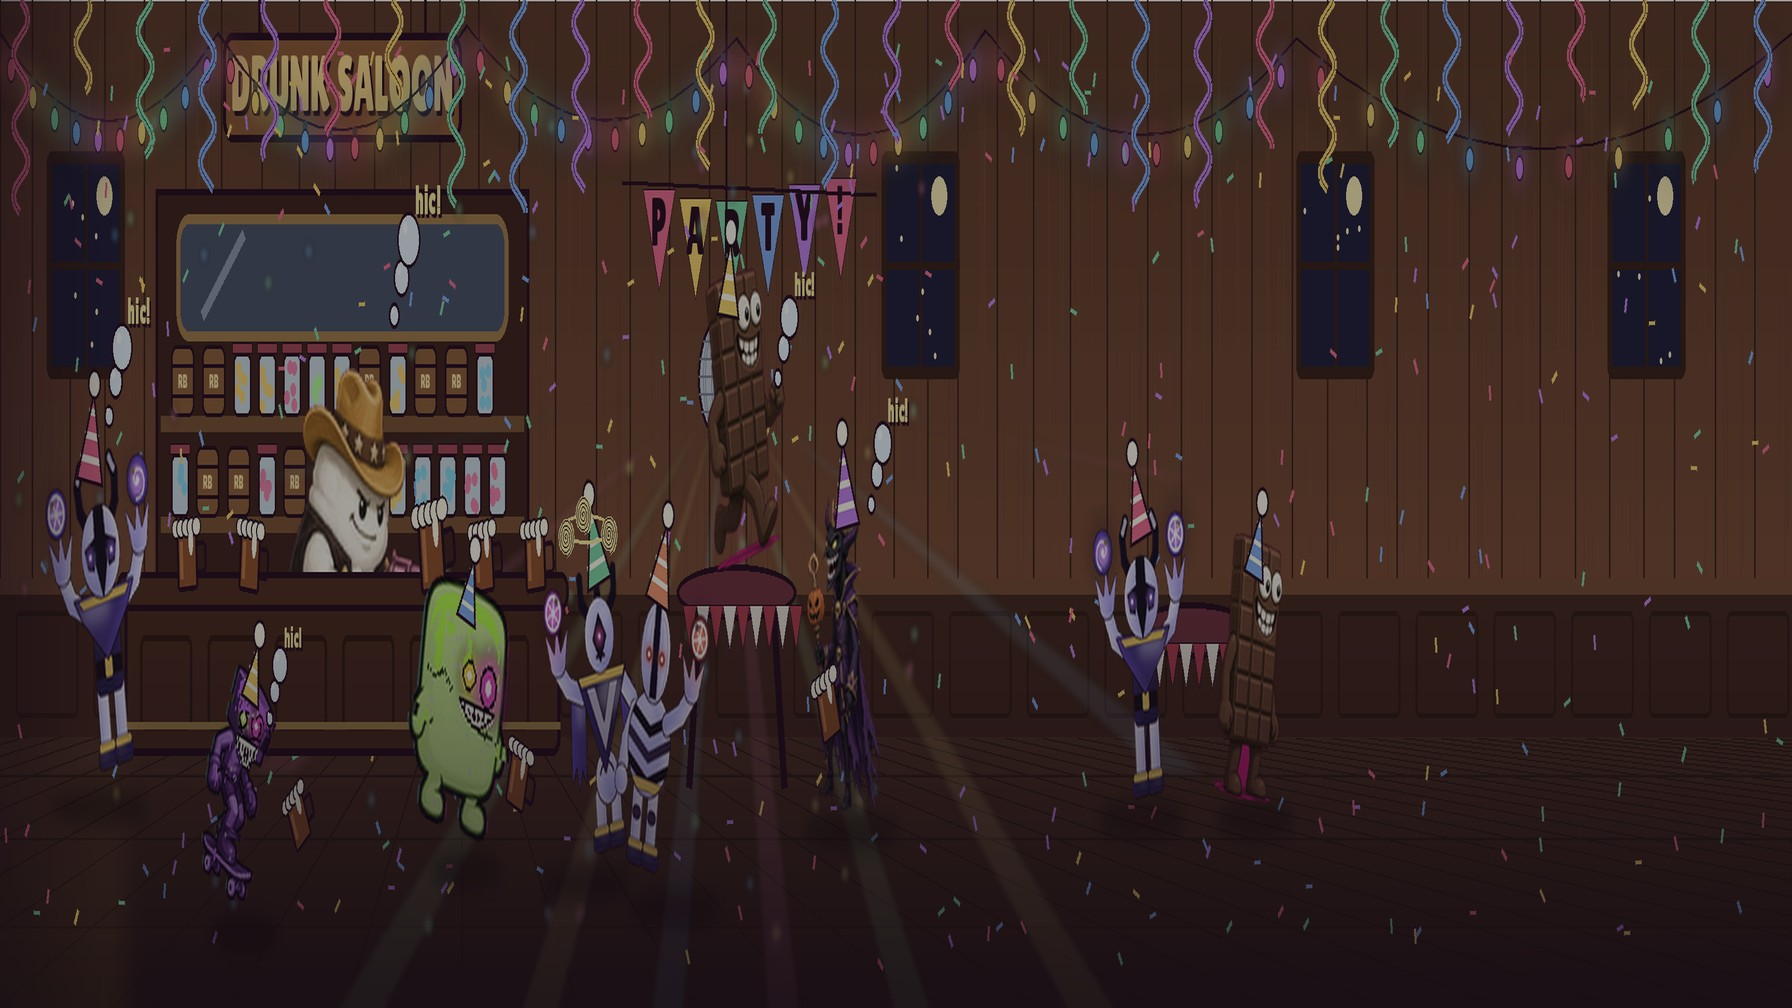
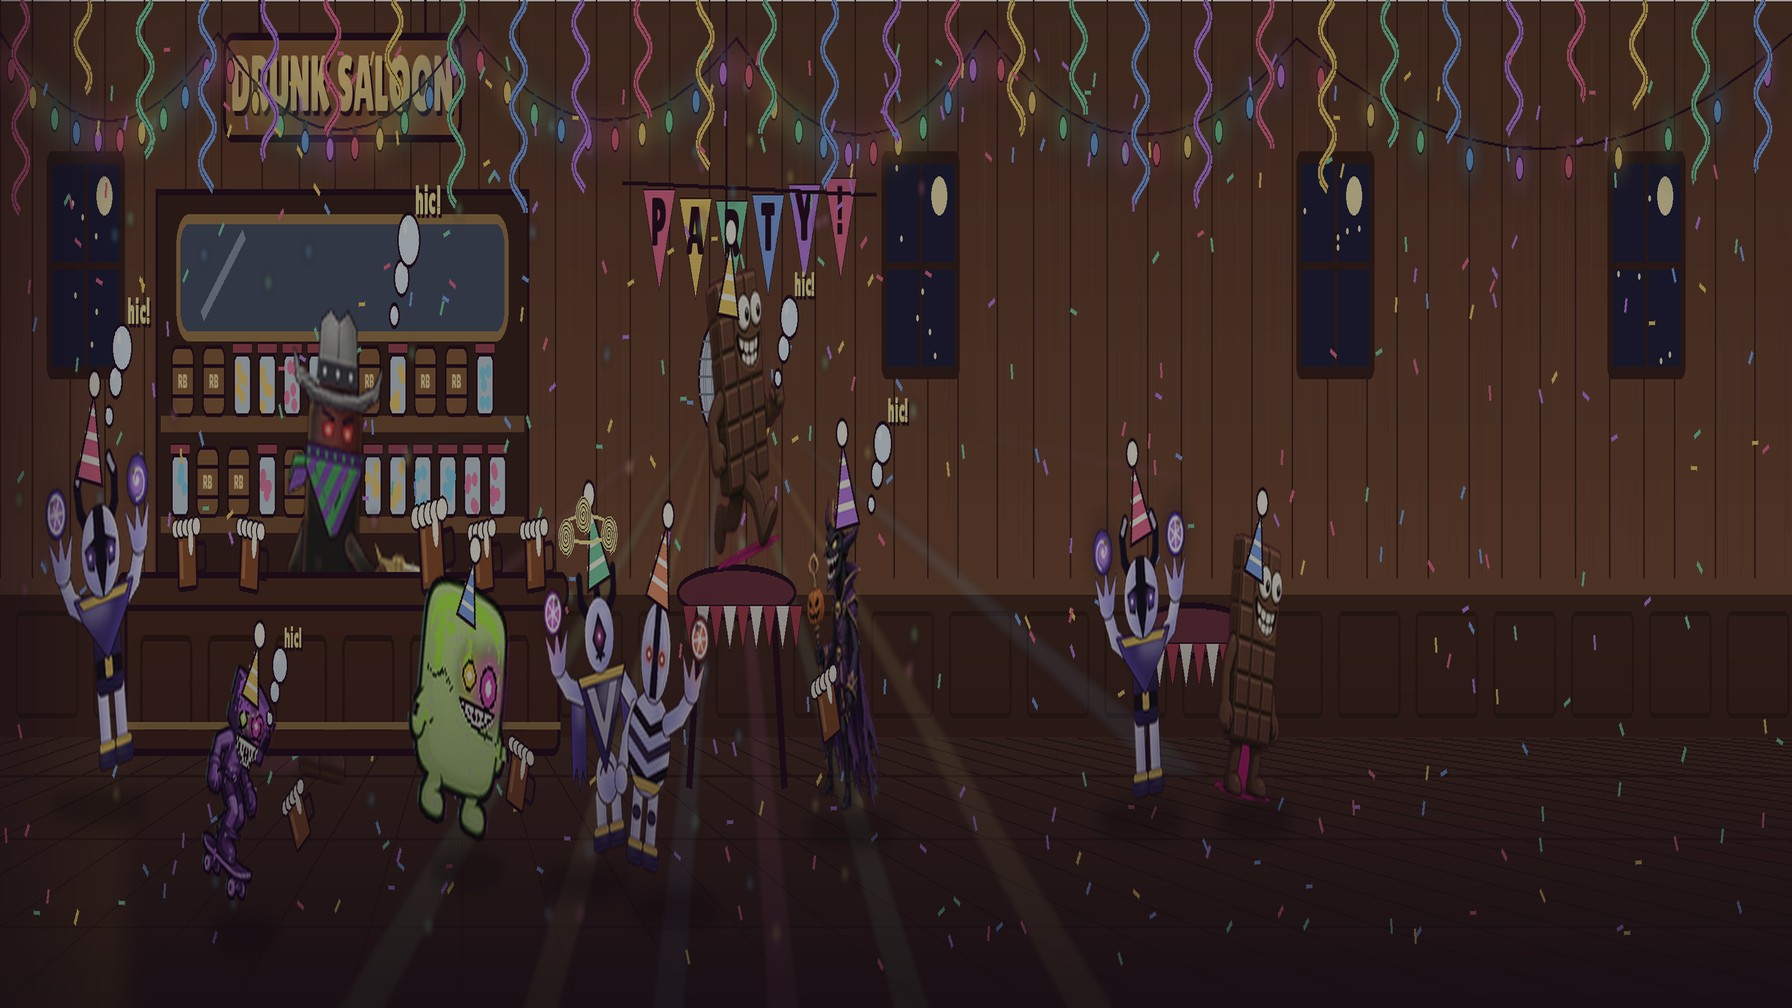
Redesign the Marshmallow Outlaw: thin roasted-black marshmallow, red glowing eyes, green/purple bandana, gray hat, golden pistol (sheet, saloon bartender, boss door)

Changed region(s): [[0.1562, 0.3075, 0.25, 0.5843]]

diff --git a/scripts/art/make-outlaw.py b/scripts/art/make-outlaw.py
@@ -1,0 +1,269 @@
+#!/usr/bin/env python3
+"""
+Marshmallow Outlaw boss sheet (f2-boss), drawn in code in the in-game boss style.
+
+Hayden's redesign: a thinner body, a roasted / charred black marshmallow body
+(with toasted-brown edges so he still reads against dark backgrounds), a green
+and purple bandana covering his mouth, a gray cowboy hat, a golden pistol and
+red glowing eyes peeking out between the bandana and the hat brim.
+
+Same format as the other boss sheets: 128px frames in a 256x256 2x2 sheet,
+feet on y=118, facing right (the game flips him toward the player), a chunky
+dark outline with soft shading and a top sheen. The four frames are his idle
+loop (`outlaw-idle` at 6 fps: breathe/bob, pistol bob, eye-glow pulse,
+bandana tails flutter); his attack poses are made by the boss rig from these.
+
+The old painted sheet is kept at scripts/art/src/outlaw-original.png so the
+change can be reverted (copy it back over public/game/sprites/outlaw.png).
+
+No AI art and no third-party art.
+
+    python3 scripts/art/make-outlaw.py
+"""
+from __future__ import annotations
+
+import importlib.util
+import math
+from pathlib import Path
+
+import numpy as np
+from PIL import Image, ImageChops, ImageDraw, ImageFilter
+
+HERE = Path(__file__).resolve().parent
+
+
+def _load(name, file):
+    spec = importlib.util.spec_from_file_location(name, HERE / file)
+    mod = importlib.util.module_from_spec(spec)
+    spec.loader.exec_module(mod)  # main() is guarded
+    return mod
+
+
+C = _load("candy", "make-candy-cube.py")
+W = _load("warlords", "make-admin-warlords.py")
+
+OUT = C.OUT
+S, px, INK = C.S, C.px, C.INK
+canvas, empty_mask, dilate, blit_color = C.canvas, C.empty_mask, C.dilate, C.blit_color
+ellipse_mask, capsule_mask, union, subtract = C.ellipse_mask, C.capsule_mask, C.union, C.subtract
+rounded_rect_mask = C.rounded_rect_mask
+part, inner, glow, path_mask, poly_mask, highlight = W.part, W.inner, W.glow, W.path_mask, W.poly_mask, W.highlight
+
+# roasted marshmallow
+CHAR = (34, 28, 28)
+CHAR_LIT = (66, 50, 44)
+TOAST = (168, 98, 44)
+TOAST_LIT = (214, 146, 70)
+# outfit
+HAT = (156, 154, 150)
+HAT_DEEP = (100, 98, 96)
+HAT_LIT = (214, 212, 208)
+GREEN = (60, 176, 84)
+GREEN_DEEP = (30, 112, 52)
+PURPLE = (136, 70, 196)
+PURPLE_DEEP = (84, 38, 130)
+GOLD = (240, 196, 70)
+GOLD_LIT = (255, 236, 150)
+GOLD_DEEP = (168, 118, 34)
+LEATHER = (110, 64, 34)
+LEATHER_DEEP = (70, 38, 20)
+EYE = (255, 36, 30)
+
+
+def erode(mask: Image.Image, width: float) -> Image.Image:
+    k = max(3, int(round(width * 2)) + 1)
+    if k % 2 == 0:
+        k += 1
+    return mask.filter(ImageFilter.MinFilter(k))
+
+
+def warm_shade(img, mask, band=7.0, strength=0.25):
+    """Right-side shading without the cool/blue shadow tint (gray hat, char)."""
+    a = np.array(img, dtype=np.float32)
+    m = np.array(mask)
+    h, w = m.shape
+    band_px = max(1, px(band))
+    factor = np.ones((h, w), dtype=np.float32)
+    for yy in np.where(m.max(axis=1) > 0)[0]:
+        xs = np.where(m[yy] > 0)[0]
+        t = np.clip((int(xs[-1]) - np.arange(w)) / band_px, 0, 1)
+        factor[yy] -= (1.0 - t) * strength
+    a[:, :, :3] *= factor[:, :, None]
+    img.paste(Image.fromarray(np.clip(a, 0, 255).astype(np.uint8), "RGBA"), (0, 0), mask)
+
+
+def gpart(dst, mask, rgb, outline=1.9, sheen=True):
+    part(dst, mask, rgb, outline=outline, shade=False, sheen=False)
+    warm_shade(dst, mask, band=6, strength=0.22)
+    if sheen:
+        highlight(dst, mask, tuple(v / S for v in mask.getbbox()), alpha=110)
+
+
+def charred(dst, mask, outline=2.0, toast=4.0):
+    """Roasted marshmallow: black body, toasted-brown edges, warm sheen."""
+    if mask.getbbox() is None:
+        return
+    rim = dilate(mask, outline).filter(ImageFilter.GaussianBlur(0.8))
+    blit_color(dst, rim, INK)
+    blit_color(dst, mask, CHAR)
+    edge = subtract(mask, erode(mask, toast)).filter(ImageFilter.GaussianBlur(px(0.9)))
+    edge = ImageChops.multiply(edge, mask)
+    blit_color(dst, edge.point(lambda v: v * 235 // 255), TOAST)
+    # left/top edges catch the light a bit more (toasted-gold)
+    bb = [v / S for v in mask.getbbox()]
+    lit = ellipse_mask((bb[0] - 6, bb[1] - 6, bb[0] + (bb[2] - bb[0]) * 0.55, bb[1] + (bb[3] - bb[1]) * 0.5))
+    lit = ImageChops.multiply(ImageChops.multiply(edge, lit), mask)
+    blit_color(dst, lit.point(lambda v: v * 170 // 255), TOAST_LIT)
+    warm_shade(dst, mask, band=7, strength=0.3)
+    highlight(dst, mask, tuple(bb), alpha=55)
+
+
+def char_spots(dst, mask, spots):
+    """A few soot / blister marks on the roasted skin."""
+    for (x, y, r) in spots:
+        m = ImageChops.multiply(ellipse_mask((x - r, y - r * 0.7, x + r, y + r * 0.7)), mask)
+        blit_color(dst, m.filter(ImageFilter.GaussianBlur(px(0.6))).point(lambda v: v * 150 // 255), CHAR_LIT)
+
+
+def boot(dst, cx, lift=0.0):
+    b = C.BOTTOM
+    shaft = rounded_rect_mask((cx - 4.2, b - 15 - lift, cx + 4.2, b - 5 - lift), 1.6)
+    foot = rounded_rect_mask((cx - 5, b - 7 - lift, cx + 9, b - lift), 3.0)
+    part(dst, union(shaft, foot), LEATHER, outline=1.8)
+    inner(dst, rounded_rect_mask((cx - 4.6, b - 2.4 - lift, cx + 9, b - lift), 1), LEATHER_DEEP)
+    inner(dst, rounded_rect_mask((cx - 4.2, b - 15 - lift, cx + 4.2, b - 13 - lift), 0.8), GOLD_DEEP)
+
+
+def pistol(dst, gx, gy, glint=0.0):
+    """Golden revolver, barrel pointing right; (gx, gy) is the grip in the hand."""
+    grip = poly_mask([(gx - 3, gy - 2), (gx + 3, gy - 2), (gx + 1.5, gy + 8), (gx - 4.5, gy + 7)])
+    frame = rounded_rect_mask((gx - 3, gy - 6, gx + 10, gy), 1.6)
+    cyl = rounded_rect_mask((gx + 4, gy - 7.5, gx + 12, gy + 0.5), 2.2)
+    barrel = rounded_rect_mask((gx + 10, gy - 6, gx + 26, gy - 2.5), 1.2)
+    hammer = poly_mask([(gx - 3.5, gy - 5), (gx - 6, gy - 9), (gx - 2, gy - 6.5)])
+    guard = subtract(ellipse_mask((gx + 0.5, gy - 2, gx + 7.5, gy + 5)), ellipse_mask((gx + 2, gy - 0.5, gx + 6, gy + 3.5)))
+    gun = union(grip, frame, cyl, barrel, hammer, guard)
+    part(dst, gun, GOLD, outline=1.6, shade=True, sheen=False)
+    inner(dst, grip, GOLD_DEEP)
+    inner(dst, rounded_rect_mask((gx + 10, gy - 6, gx + 26, gy - 4.8), 0.5), GOLD_LIT)
+    d = ImageDraw.Draw(dst)
+    for k in (6.5, 9.5):
+        d.line([(px(gx + k), px(gy - 7)), (px(gx + k), px(gy))], fill=GOLD_DEEP + (255,), width=px(0.7))
+    d.ellipse((px(gx + 24.4), px(gy - 5.2), px(gx + 25.8), px(gy - 3.3)), fill=INK)  # muzzle
+    # sparkle
+    sx, sy = gx + 16 + glint * 6, gy - 5.4
+    s = 1.2 + 0.6 * glint
+    d.polygon([(px(sx), px(sy - s * 2.4)), (px(sx + s * 0.5), px(sy)), (px(sx), px(sy + s * 2.4)), (px(sx - s * 0.5), px(sy))], fill=(255, 255, 240, 230))
+    d.polygon([(px(sx - s * 2.4), px(sy)), (px(sx), px(sy - s * 0.5)), (px(sx + s * 2.4), px(sy)), (px(sx), px(sy + s * 0.5))], fill=(255, 255, 240, 230))
+
+
+def bandana(dst, y, flutter, head):
+    """Green-and-purple bandana over the mouth, knotted at the back (left)."""
+    # tails behind the head (left side, he faces right)
+    for k, (dy, col) in enumerate(((0, GREEN), (3, PURPLE))):
+        t = poly_mask([(48, 43 + y + dy), (40 - flutter * (1 + k), 44 + y + dy + flutter), (37 - flutter, 50 + y + dy + flutter * 1.4), (46, 47 + y + dy)])
+        part(dst, t, col, outline=1.4, shade=False, sheen=False)
+    cloth = poly_mask([(45.5, 40.5 + y), (78.5, 40.5 + y), (78, 45 + y), (66, 60 + y), (62, 61 + y), (47, 46 + y)])
+    cloth = ImageChops.multiply(cloth, dilate(head, 1.4))
+    blit_color(dst, dilate(cloth, 1.4).filter(ImageFilter.GaussianBlur(0.8)), INK)
+    blit_color(dst, cloth, GREEN)
+    # purple diagonal stripes + dots pattern
+    stripes = empty_mask()
+    sd = ImageDraw.Draw(stripes)
+    for i in range(-3, 8):
+        x0 = 44 + i * 9
+        sd.polygon([(px(x0), px(40 + y)), (px(x0 + 4), px(40 + y)), (px(x0 + 4 - 18), px(60 + y)), (px(x0 - 18), px(60 + y))], fill=255)
+    blit_color(dst, ImageChops.multiply(stripes, cloth), PURPLE)
+    # hem band (purple) along the top edge with green dots
+    hem = ImageChops.multiply(rounded_rect_mask((44, 40.5 + y, 78, 43.4 + y), 0.6), cloth)
+    blit_color(dst, hem, PURPLE_DEEP)
+    d = ImageDraw.Draw(dst)
+    for x in range(48, 76, 5):
+        d.ellipse((px(x - 0.7), px(41.3 + y), px(x + 0.7), px(42.7 + y)), fill=GREEN + (255,))
+    warm_shade(dst, cloth, band=6, strength=0.22)
+    # fold lines
+    d.line([(px(52), px(46 + y)), (px(61), px(55 + y))], fill=GREEN_DEEP + (200,), width=px(0.7))
+    d.line([(px(71), px(45 + y)), (px(64), px(54 + y))], fill=GREEN_DEEP + (200,), width=px(0.7))
+
+
+def red_eyes(dst, y, pulse):
+    for ex, w in ((58.5, 3.2), (69.5, 2.9)):
+        glow(dst, ex, 36 + y, 6.5, EYE, 0.55 * pulse)
+        eye = poly_mask([(ex - w, 35 + y), (ex + w, 34 + y), (ex + w * 0.8, 37.6 + y), (ex - w * 0.7, 37.8 + y)])
+        blit_color(dst, dilate(eye, 0.7), INK)
+        blit_color(dst, eye, EYE)
+        core = ellipse_mask((ex - w * 0.45, 35.2 + y, ex + w * 0.45, 37.0 + y)).filter(ImageFilter.GaussianBlur(px(0.4)))
+        blit_color(dst, core, (255, 190, 170))
+    # angry brows (the hat brim shadow sits above)
+    d = ImageDraw.Draw(dst)
+    d.line([(px(54.5), px(31.8 + y)), (px(61.5), px(33.6 + y))], fill=INK, width=px(1.3))
+    d.line([(px(73), px(31.8 + y)), (px(66.5), px(33.6 + y))], fill=INK, width=px(1.3))
+
+
+def hat(dst, y):
+    """Gray cowboy hat with an upturned brim and a dented crown."""
+    cy = 24 + y
+    crown = poly_mask([(51, cy + 1), (52, cy - 13), (57, cy - 16), (62, cy - 13.5), (67, cy - 16.5), (72, cy - 13), (74, cy + 1)])
+    gpart(dst, crown, HAT, sheen=False)
+    d = ImageDraw.Draw(dst)
+    d.line([(px(62), px(cy - 13)), (px(62.3), px(cy - 5))], fill=HAT_DEEP + (255,), width=px(1.0))  # crease
+    band = ImageChops.multiply(rounded_rect_mask((50, cy - 3.6, 75, cy + 0.5), 0.8), dilate(crown, 0.2))
+    inner(dst, band, (60, 62, 70))
+    for x in (55, 62.5, 70):  # little silver conchos
+        d.ellipse((px(x - 1.1), px(cy - 2.6), px(x + 1.1), px(cy - 0.4)), fill=HAT_LIT + (255,))
+    brim = poly_mask([(37, cy - 5), (41, cy - 0.5), (50, cy + 2.5), (62.5, cy + 3.2), (75, cy + 2.5), (84, cy - 0.5), (88, cy - 5.5),
+                      (86, cy + 2), (78, cy + 5.6), (62.5, cy + 6.6), (47, cy + 5.6), (39, cy + 2)])
+    gpart(dst, brim, HAT, sheen=False)
+    inner(dst, poly_mask([(42, cy + 2.6), (50, cy + 4.6), (62.5, cy + 5.4), (75, cy + 4.6), (83, cy + 2.6), (78, cy + 5.4), (62.5, cy + 6.4), (47, cy + 5.4)]), HAT_DEEP)
+    highlight(dst, crown, (51, cy - 16.5, 74, cy + 1), alpha=110)
+    d.line([(px(41), px(cy - 1.2)), (px(52), px(cy + 1.6))], fill=HAT_LIT + (255,), width=px(0.9))
+
+
+def outlaw(f: int) -> Image.Image:
+    img = canvas()
+    bob = [0, -0.8, -1.4, -0.6][f]
+    gun = [0, -0.6, -1.0, -0.4][f]
+    pulse = [0.85, 1.0, 1.2, 1.0][f]
+    flutter = [0, 1.0, 1.8, 0.8][f]
+    y = bob
+    # thin legs + boots
+    for lx in (55, 67):
+        leg = path_mask([(lx, 92 + y * 0.5), (lx, 106)], 3.4)
+        charred(img, leg, outline=1.8, toast=1.6)
+        boot(img, lx)
+    # back arm (left), hand on the belt
+    arm_b = path_mask([(48, 62 + y), (42, 71 + y), (46, 79 + y)], 3.0)
+    charred(img, arm_b, outline=1.8, toast=1.5)
+    # one tall, thin roasted marshmallow (body + rounded head end)
+    torso = rounded_rect_mask((47, 46 + y, 78, 96 + y), 9)
+    head = rounded_rect_mask((47, 24 + y, 78, 62 + y), 10)
+    body = union(head, torso)
+    charred(img, body)
+    char_spots(img, body, [(56, 68 + y, 2.2), (70, 76 + y, 1.8), (58, 90 + y, 1.6), (73, 30 + y, 1.4)])
+    # belt + gold buckle + holster
+    belt = ImageChops.multiply(rounded_rect_mask((46, 83 + y, 79, 88 + y), 1), dilate(body, 0.6))
+    inner(img, belt, LEATHER)
+    inner(img, rounded_rect_mask((59.5, 82.6 + y, 65.5, 88.4 + y), 1.2), GOLD)
+    holster = rounded_rect_mask((74, 85 + y, 80, 97 + y), 2)
+    part(img, holster, LEATHER, outline=1.5, sheen=False)
+    part(img, ellipse_mask((43, 76 + y, 49.5, 82.5 + y)), CHAR, outline=1.4, shade=False, sheen=False)  # back fist
+    # red eyes peeking between brim and bandana
+    red_eyes(img, y, pulse)
+    bandana(img, y, flutter, body)
+    hat(img, y)
+    # front arm out with the golden pistol
+    hx, hy = 94, 69 + y + gun
+    arm_f = path_mask([(74, 62 + y), (83, 67 + y), (hx - 3, hy)], 3.1)
+    charred(img, arm_f, outline=1.8, toast=1.5)
+    pistol(img, hx, hy, glint=[0, 0.4, 1.0, 0.5][f])
+    part(img, ellipse_mask((hx - 5.5, hy - 4, hx + 1.5, hy + 3)), CHAR, outline=1.4, shade=False, sheen=False)  # fist
+    blit_color(img, subtract(ellipse_mask((hx - 5.5, hy - 4, hx + 1.5, hy + 3)), ellipse_mask((hx - 4.5, hy - 3, hx + 0.5, hy + 2))).filter(ImageFilter.GaussianBlur(px(0.5))), TOAST)
+    return img
+
+
+def main():
+    W.make_sheet([outlaw(f) for f in range(4)], OUT / "outlaw.png")
+
+
+if __name__ == "__main__":
+    main()

diff --git a/scripts/art/make-level-doors.py b/scripts/art/make-level-doors.py
@@ -9,7 +9,7 @@ third-party art). Same chunky ink outline + soft shading as make-doors.py.
   python3 scripts/art/make-level-doors.py
 """
 import importlib.util, math, os, random
-from PIL import Image, ImageDraw, ImageFont
+from PIL import Image, ImageDraw, ImageFilter, ImageFont
 
 HERE = os.path.dirname(__file__)
 spec = importlib.util.spec_from_file_location("doors_base", os.path.join(HERE, "make-doors.py"))
@@ -489,14 +489,29 @@ def boss_choco():
 
 
 def boss_outlaw():
+    # Wanted poster of the redesigned Outlaw (scripts/art/make-outlaw.py): gray
+    # cowboy hat, roasted-black marshmallow face, red glowing eyes and a
+    # green-and-purple bandana over his mouth.
     img = canvas(BW, BH)
     d = boss_frame(img, (190, 140, 90), (140, 96, 56), (250, 244, 230), (220, 206, 180))
-    d.polygon(P(20, 34, 116, 34, 104, 16, 86, 22, 68, 6, 50, 22, 32, 16), fill=(196, 130, 60, 255), outline=INK)  # hat brim
-    d.rectangle(P(20, 30, 116, 38), fill=(170, 110, 50, 255), outline=INK, width=2 * S)
+    d.polygon(P(20, 34, 116, 34, 104, 16, 86, 22, 68, 6, 50, 22, 32, 16), fill=(150, 148, 144, 255), outline=INK)  # gray hat brim
+    d.rectangle(P(20, 30, 116, 38), fill=(108, 106, 104, 255), outline=INK, width=2 * S)
     d.rectangle(P(40, 70, 96, 124), fill=(246, 230, 190, 255), outline=INK, width=3 * S)
     text(d, (68, 80), "WANTED", 12, (160, 40, 30, 255), stroke=(246, 230, 190, 255))
-    d.ellipse(P(52, 88, 84, 118), fill=(255, 250, 240, 255), outline=INK, width=2 * S)
-    d.ellipse(P(60, 98, 64, 102), fill=INK); d.ellipse(P(72, 98, 76, 102), fill=INK)
+    d.rounded_rectangle(P(54, 88, 82, 120), 6 * S, fill=(40, 32, 30, 255), outline=(150, 90, 40, 255), width=2 * S)  # charred face
+    glow = Image.new("RGBA", img.size, (0, 0, 0, 0))
+    gd = ImageDraw.Draw(glow)
+    for x in (62, 74):
+        gd.ellipse(P(x - 5, 92, x + 5, 102), fill=(255, 40, 30, 150))
+    img.alpha_composite(glow.filter(ImageFilter.GaussianBlur(3 * S)))
+    d = ImageDraw.Draw(img)
+    for x in (62, 74):
+        d.ellipse(P(x - 2.5, 95.5, x + 2.5, 98.5), fill=(255, 50, 40, 255))
+    d.polygon(P(54, 102, 82, 102, 70, 118, 66, 118), fill=(60, 176, 84, 255), outline=INK)  # bandana
+    for k in range(3):
+        x = 63 + k * 6
+        d.line(P(x, 104, x - 3, 110), fill=(136, 70, 196, 255), width=2 * S)
+    d.rectangle(P(54, 101, 82, 104), fill=(84, 38, 130, 255))
     for (x0, y0, x1, y1) in [(28, 140, 108, 140), (28, 160, 108, 160)]:
         d.line(P(x0, y0, x1, y1), fill=(170, 120, 60, 255), width=4 * S)  # rope
     return img

diff --git a/scripts/art/make-saloon-party.py b/scripts/art/make-saloon-party.py
@@ -353,7 +353,7 @@ def place(img: Image.Image, name: str, cx: int, foot: int, height: int, tilt: fl
 def guests(img: Image.Image) -> None:
     # Outlaw tends the bar (behind the counter, so only the top shows)
     behind = Image.new("RGBA", img.size, (0, 0, 0, 0))
-    place(behind, "outlaw", 700, 610, 300, tilt=-6, hat=None, shadow=False)
+    place(behind, "outlaw", 690, 640, 380, tilt=-6, hat=None, shadow=False)
     img.alpha_composite(behind)
     counter(img)
     m = mug(70, 8)

diff --git a/scripts/art/README.md b/scripts/art/README.md
@@ -46,6 +46,16 @@ straight from their in-game sheets (cuboe-jump arms-up frame, cubro-idle
 frame mirrored), into `public/game/sprites/credits-cuboe-cubro.png`. His
 photo stays in `assets/hayden/originals/credits.jpg`.
 
+`make-outlaw.py` draws the Marshmallow Outlaw boss sheet (f2-boss,
+`public/game/sprites/outlaw.png`, 2x2 128px idle frames, feet on y=118) from
+Hayden's redesign: a thinner, roasted-black marshmallow with toasted-brown
+edges, red glowing eyes, a green-and-purple bandana over his mouth, a gray
+cowboy hat and a golden pistol. Run `make-saloon-party.py` (he is the
+bartender) and `make-level-doors.py` (his wanted-poster door) after it. The
+old painted sheet, door and saloon background stay in `scripts/art/src/`
+(`outlaw-original.png`, `door-boss-outlaw-original.png`,
+`saloon-party-original.jpg`) for reverting.
+
 `make-saloon-party.py` draws the Drunk Saloon (level f3-3) background: a
 bar party with every boss (Choco Man, the Outlaw behind the bar, the Candy
 Warlock, Fake Cuboe, Fake Cubro and all three Admin Warlords) cut from their
